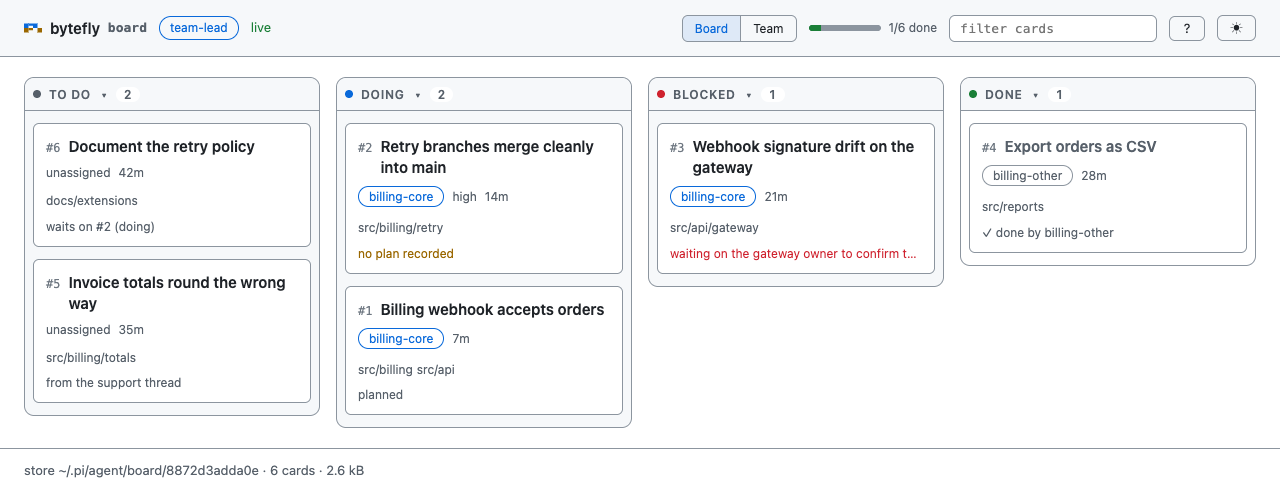
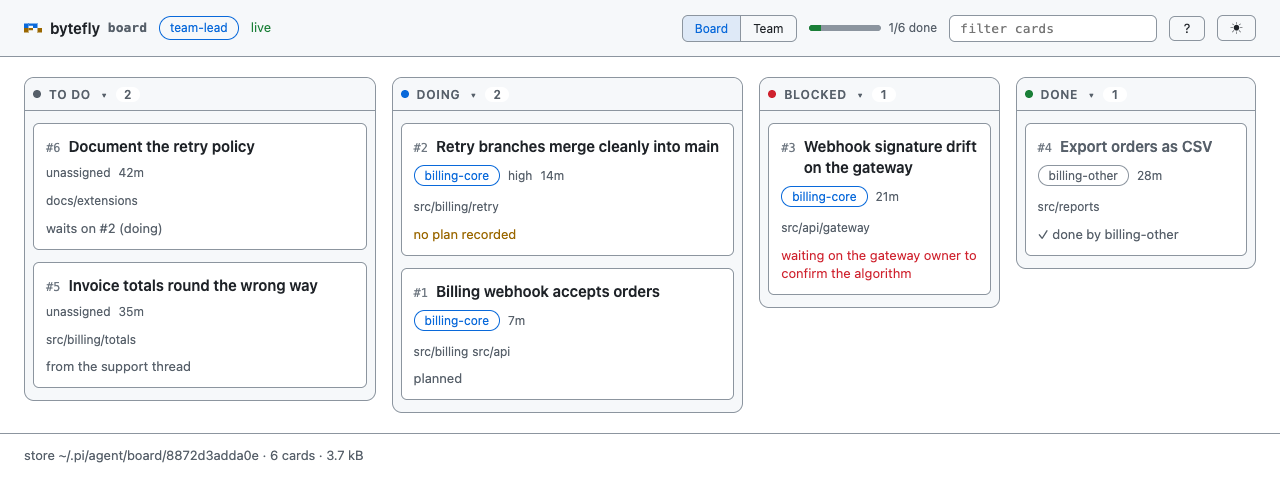
feat(board): lanes grow with their work
The sheet has always said a lane is "sized by the work it holds", and the rule
under it was `flex:1 1 0`: every lane with a card took an equal share, so the one
that narrowed was the one holding nothing. At 1280px that is ~285px each, and the
cards paid: a title with room for two more words wrapped to two lines in a column
the lane was not using.

The client now publishes each lane's card count, and the sheet turns it into a
flex-grow with a 15rem floor — two cards earn more of the row than one, and a rail
keeps its own width. The floor is set only on the two states that draw a tray, so
four lanes at 1180px are 60rem and the wrap arrives before the floor could
overflow it. The property is declared in the sheet as well as set from the
snapshot, so `pages.test.ts` still holds every `var()` to a definition and a lane
whose count never arrived is an ordinary lane.

Two more things the picture was paying for. A blocked card's reason — the reason
a lead should act on it — reached the face as `waiting on the gateway owner to
confirm t…`, one line at `--fs-xs`, while the Team tab drew the same sentence over
two lines at `--fs-sm`; the card face now takes that same clamp, and the whole
sentence stays on the title. And the Done lane sat on `--canvas`, the colour of
the cards it holds, so its tray read as a hole in the row: it keeps `--surface`
like every other lane and recedes through its muted title and chip, which is what
the colour-role paragraph already gave it.
[…]

diff --git a/extensions/board/view/styles.ts b/extensions/board/view/styles.ts
@@ -42,7 +42,16 @@ ${WEB_COMPONENTS_CSS}
    sized by the work it holds rather than by its share of the row, so one holding nothing
    narrows to a rail and hands the width to the lanes carrying cards. */
 .board-lanes{display:flex;flex-wrap:nowrap;gap:var(--space-4);align-items:start}
-.board-lane{display:flex;flex:1 1 0;flex-direction:column;gap:var(--space-2);min-width:0;padding:0 var(--space-2) var(--space-3);border:1px solid var(--border);border-radius:var(--radius-lg);background:var(--surface)}
+.board-lane{--lane-count:0;display:flex;flex:1 1 0;flex-grow:calc(1 + var(--lane-count));flex-direction:column;gap:var(--space-2);min-width:0;padding:0 var(--space-2) var(--space-3);border:1px solid var(--border);border-radius:var(--radius-lg);background:var(--surface)}
+/* The lane count is a count, not a design token: the client sets it from the snapshot and
+   declares its default here, so a lane whose count never arrived is an ordinary lane
+   rather than a variable nobody defines. */
+/* A lane's share of the row follows the work it holds — two cards earn more width than
+   one — and the floor is the narrowest a tray is still a tray at. It is set on the two
+   states that draw one, so a rail keeps its own width, and both breakpoints below
+   replace the basis, so the floor only ever applies to the row it was chosen for:
+   four lanes at 1180px are 60rem, which is inside the row before the wrap. */
+.board-lane[data-empty="false"][data-folded="false"]{min-width:15rem}
 /* The rail: a dot, a word, and a count — the fact that the lane is showing nothing, not a
    tray. A lane is a rail when it holds no cards and when it is folded, because both say
    the same thing: there is nothing here to read. */
@@ -57,7 +66,6 @@ ${WEB_COMPONENTS_CSS}
 .board-lane__dot{width:var(--space-2);height:var(--space-2);border-radius:var(--radius-pill);background:var(--muted)}
 .board-lane[data-status="doing"] .board-lane__dot{background:var(--accent)}
 .board-lane[data-status="blocked"] .board-lane__dot{background:var(--danger)}
-.board-lane[data-status="done"]{background:var(--canvas)}
 .board-lane[data-status="done"] .board-lane__dot{background:var(--success)}
 .board-lane__list{display:flex;flex-direction:column;gap:var(--space-3);margin:0;padding:0;list-style:none}
 .board-lane__empty{margin:0;font:var(--fs-sm) var(--font-ui);color:var(--dim)}
@@ -77,7 +85,7 @@ ${WEB_COMPONENTS_CSS}
 .board-card[data-status="done"] .bf-chip--accent{color:var(--muted);border-color:var(--border)}
 .board-card__meta{display:flex;flex-wrap:wrap;align-items:center;gap:var(--space-2);margin:0;font:var(--fs-xs) var(--font-ui);color:var(--muted)}
 .board-card__paths{display:flex;flex-wrap:wrap;gap:var(--space-1);margin:0;padding:0;list-style:none}
-.board-card__reason{margin:0;font:var(--fs-xs) var(--font-ui);color:var(--muted);white-space:nowrap;overflow:hidden;text-overflow:ellipsis}
+.board-card__reason{margin:0;font:var(--fs-sm)/var(--lh-snug) var(--font-ui);color:var(--muted);display:-webkit-box;-webkit-line-clamp:2;-webkit-box-orient:vertical;overflow:hidden;overflow-wrap:anywhere}
 .board-card__reason--blocked{color:var(--danger)}
 .board-card__reason--unplanned{color:var(--warn)}
 

diff --git a/extensions/board/view/render.ts b/extensions/board/view/render.ts
@@ -335,6 +335,10 @@ __RUNTIME__
       // the fact deserves. The filter never does this — filtering is a view of the cards,
       // not a statement that the lane has none.
       section.setAttribute("data-empty", lane.cards.length === 0 ? "true" : "false");
+      // The lane's share of the row follows the work it holds: the sheet turns this number
+      // into a flex-grow, so two cards earn more width than one and a title is not wrapped
+      // for want of a column the lane is not using. A count, never text.
+      section.style.setProperty("--lane-count", String(lane.cards.length));
       var shown = lane.cards.filter(function (card) { return matches(card, query); });
       var sig = lane.cards.map(function (card) { return card.id + ":" + card.rev; }).join(",") + "|" + query;
       if (section.getAttribute("data-sig") !== sig) {

diff --git a/docs/extensions/board.md b/docs/extensions/board.md
@@ -161,8 +161,8 @@ pinned and makes the main pane the only scroll box; the page adds no second one.
 | Band | What it holds |
 |---|---|
 | Toolbar | the mark, the seat the page is served as, as a chip, a live badge (`connecting…`, `live` or `live · 3m`, `reconnecting…`), then one group: the Board\|Team switch, done-of-total progress, a filter, the keys button, and the theme toggle |
-| Lanes | trays, not a bare list: one column per lane, sized by the work it holds, so a lane showing nothing — because it holds no cards, or because it is folded — narrows to a rail of dot, word, and count, and the lanes carrying cards keep the width. Three or four across above 1180px, two at 1180px or narrower, one lane plus the lane switch at 860px or narrower — where it opens on the first lane that holds a card. Each head sticks while the pane scrolls, carries its count as a pill, and folds its cards away: `Done` starts folded at six cards or more, since finished work is history, and a reader's toggle decides from then on |
-| Cards | the id and a two-line title (the page's loudest text and its only door), an owner chip and an age, a muted priority chip when it is not `normal`, path chips, and one reason line in one voice — what a card waits for, a blocked card's recorded reason or else its last note (or `blocked, with nothing recorded`), `no plan recorded`, `planned`, `✓ done by <owner>` with the commit it landed as, and the last note of a card that is none of those — clamped, with the whole sentence as its tooltip. A card draws **no button**: claiming, moving, editing, and annotating are the tools' work, and a face that offered them would be offering a refusal. A hovered card lifts a pixel; a finished one recedes, title and owner chip muted |
+| Lanes | trays, not a bare list: one column per lane, sized by the work it holds — a lane with two cards is wider than one with a single card, and a lane showing nothing, because it holds no cards or because it is folded, narrows to a rail of dot, word, and count — so the lanes carrying work keep the width. Three or four across above 1180px, two at 1180px or narrower, one lane plus the lane switch at 860px or narrower — where it opens on the first lane that holds a card. Each head sticks while the pane scrolls, carries its count as a pill, and folds its cards away: `Done` starts folded at six cards or more, since finished work is history, and a reader's toggle decides from then on |
+| Cards | the id and a two-line title (the page's loudest text and its only door), an owner chip and an age, a muted priority chip when it is not `normal`, path chips, and one reason line in one voice — what a card waits for, a blocked card's recorded reason or else its last note (or `blocked, with nothing recorded`), `no plan recorded`, `planned`, `✓ done by <owner>` with the commit it landed as, and the last note of a card that is none of those — up to two lines at the Team tab's size, with the whole sentence as its tooltip, because the reason is the reason to act on the card. A card draws **no button**: claiming, moving, editing, and annotating are the tools' work, and a face that offered them would be offering a refusal. A hovered card lifts a pixel; a finished one recedes, title and owner chip muted |
 | Team | two panels and a strip. **Needs a decision** is one row per card — a card that is both idle and unplanned arrives once, keeping its strongest reason — laid out as two lines: the id, title and owner chip on the first, the reason on the second — a blocked card's recorded `blockedBy`, else its last note, and `offered 2h ago — nobody took it` for a card whose offer went unanswered — with the whole sentence as its tooltip, and its kind as a left edge (`--danger` blocked, `--warn` idle, `--dim` unplanned or waiting, the same `--dim` dashed for nobody's). The row is a reason to pick the card up in the terminal, and it draws no button: claiming and reclaiming are the tools' work. An unassigned card that waits on unfinished work is a row of its own kind, ranked just under a blocker. Above 1180px the queue stops at one screen's height and scrolls inside its panel, so the roster and the Done strip stay on the same page as its top. **Teammates** is one row per person — a state dot, the label, a `you` chip, a `not listening` chip on a live peer whose inbox watch is off, a mail badge, then `live · 3 held · 1 done · oldest 21m` (a quiet session reads `quiet for 2h`, because a word without an age is no reason to reclaim) — sorted you, live, quiet, no record, and an owner whose label nothing answers to keeps its row. Done is one quiet strip whose ids open their cards. Both panels honour the toolbar's filter, and their headings read `shown/total` the way a lane head does. Below 1180px the queue comes first and the roster follows |
 | Card dialog | the record of one card, in two named sections. The head carries the id, the title, and the lane as a dot and a word. **The card** is a ladder — one fact per row, labels sized to the longest of them so the values line up: owner, priority when it is not `normal`, updated, in lane, last edited, landed, waits on, waited on by, plan, paths. `in lane` is the lane the card is in and how long it has held it, read from the card's transitions rather than from `updatedAt`, which a note or an edit moves; a card whose history does not say omits the row. The plan and each path are one line that elides, with the whole value on the hover title; what it waits for reads `#2 (doing)`, the lanes that make the id a decision. Empty rows take their labels with them. **Notes · N** is the cargo at body size on a 68ch measure, each sentence with its attribution under it and a rule between notes, and `M earlier notes dropped` when the store capped them. The body is the only scroll, so the head and `Close` stay put. Nothing in it writes, every field is a set as `textContent`, and the title underneath every card is the way in. `j`/`k` walk to the next or previous card without closing it, and an `sr-only` live region announces `card 2 of 3: <title>` — a title that changes inside an open modal is not announced on its own |
 (feat(team): an offer leaves a record, so its age can be read)
@@ -170,8 +170,9 @@ pinned and makes the main pane the only scroll box; the page adds no second one.
 Colour is a role: `--muted` for `todo`, `--accent` for `doing`, `--danger` for
 `blocked` and destructive choices, `--success` for `done`. The Team tab's decision
 rows sit on the kit's `--raised`, the one step above `--surface` that lets a block read
-as a plane instead of an outline; the Done lane sits on the page itself, so history
-stops competing with the lanes a lead works in. A card takes its colour
+as a plane instead of an outline; every lane, `Done` included, keeps that `--surface`
+tray, so a finished card still sits on something and history recedes through its muted
+title and chip instead of through a hole in the row. A card takes its colour
 from the lane it sits in — the head's dot, and the reason line's tone — rather than
 from a bar of its own, so one card does not shout twice. The page states a lane and
 a card with `data-status`, so a theme change repaints it without a rule of its own.

diff --git a/CHANGELOG.md b/CHANGELOG.md
@@ -192,6 +192,12 @@ to [Semantic Versioning](https://semver.org/spec/v2.0.0.html).
   worktree chip that nothing else in the frame agreed with. A test re-derives each claim
   from the frame or from the tables.
 
+- `board`: a lane's width follows the work it holds, so two cards earn more of the row than
+  one and a long title stops wrapping in a column the lane was not using; a card's reason
+  line gets two lines at the Team tab's size, so a blocked card's sentence reads instead of
+  cutting at forty characters; and the Done lane keeps its tray, receding through its muted
+  title rather than through a hole in the row.
+
 ### Removed
 
 - `board`: the page no longer changes a card. `/board` serves a live view of the board and
